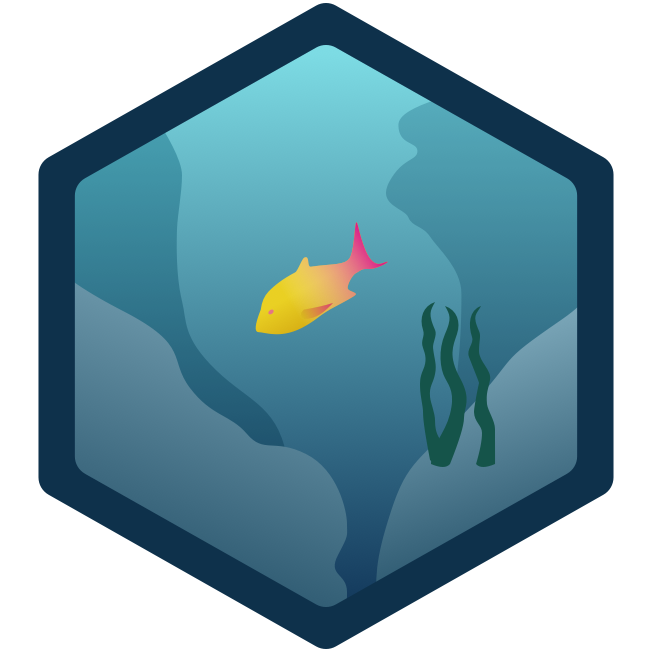
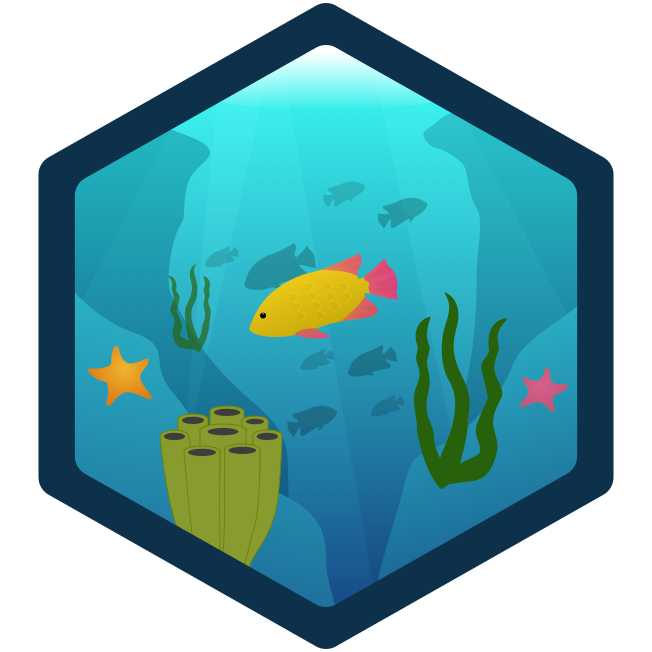
Updated assets

diff --git a/utility/challengeHelpers.js b/utility/challengeHelpers.js
@@ -19,13 +19,6 @@ const fetchIncompleteChallenges = ( realm ) => {
   const incompleteChallenges = realm.objects( "ChallengeRealm" )
     .filtered( "percentComplete != 100 AND started == true" );
 
-  incompleteChallenges.forEach( ( challenge ) => {
-    const { startedDate } = challenge;
-
-    if ( !startedDate ) {
-      challenge.startedDate = new Date();
-    }
-  } );
   return incompleteChallenges;
 };
 
@@ -43,15 +36,8 @@ const fetchObservationsAfterChallengeStarted = ( realm, challenge ) => {
   return seenTaxa;
 };
 
-const updateChallengePercentages = ( challenge ) => {
-  const prevPercent = challenge.percentComplete; // this only ever calculates for april
-  const totalSeen = challenge.numbersObserved.reduce( ( acc, val ) => acc + val );
-
-  const percentComplete = calculatePercent( totalSeen, challenge.totalSpecies );
-
-  challenge.percentComplete = percentComplete;
-
-  if ( percentComplete === 100 ) {
+const setChallengeNotifications = ( percentComplete, prevPercent, challenge ) => {
+  if ( percentComplete === 100 && prevPercent !== 100 ) {
     challenge.completedDate = new Date();
     createNotification( "challengeCompleted", challenge.index );
   } else if ( percentComplete >= 75 && prevPercent < 75 ) {
@@ -60,6 +46,18 @@ const updateChallengePercentages = ( challenge ) => {
 
   if ( prevPercent < percentComplete ) {
     setChallengeProgress( challenge.index );
+  }
+};
+
+const updateChallengePercentages = ( challenge ) => {
+  const prevPercent = challenge.percentComplete; // this only ever calculates for april
+  const totalSeen = challenge.numbersObserved.reduce( ( acc, val ) => acc + val );
+
+  const percentComplete = calculatePercent( totalSeen, challenge.totalSpecies );
+
+  if ( prevPercent !== percentComplete ) {
+    challenge.percentComplete = percentComplete;
+    setChallengeNotifications( percentComplete, prevPercent, challenge );
   }
 };
 
@@ -90,7 +88,7 @@ const checkForAncestors = ( seenTaxa, taxaId ) => {
   return matchingAncestors;
 };
 
-const calculateTaxaSeenPerMission = ( types, seenTaxa ) => {
+const calculateTaxaSeenPerMission = ( types, seenTaxa ) => { // only getting challenge 1
   let count = 0;
 
   types.forEach( ( taxa ) => {
@@ -102,8 +100,15 @@ const calculateTaxaSeenPerMission = ( types, seenTaxa ) => {
       const taxaId = taxonDict.default[taxa];
       const taxaTypeSeen = seenTaxa.filter( t => t.taxon.iconicTaxonId === taxaId );
       const matchingAncestors = checkForAncestors( seenTaxa, taxaId );
+      if ( taxaTypeSeen.length > 0 ) {
+        taxaPerMission = taxaTypeSeen.length;
+      } else if ( matchingAncestors.length > 0 ) {
+        taxaPerMission = matchingAncestors.length;
+      } else {
+        taxaPerMission = 0;
+      }
 
-      taxaPerMission = taxaTypeSeen.length || matchingAncestors.length;
+      // taxaPerMission = taxaTypeSeen.length || matchingAncestors.length;
     }
     count += taxaPerMission;
   } );

diff --git a/components/Challenges/ChallengeDetailsScreen.js b/components/Challenges/ChallengeDetailsScreen.js
@@ -8,7 +8,8 @@ import {
   ImageBackground,
   TouchableOpacity,
   ScrollView,
-  SafeAreaView
+  SafeAreaView,
+  StatusBar
 } from "react-native";
 import Realm from "realm";
 import Modal from "react-native-modal";
@@ -159,6 +160,7 @@ class ChallengeDetailsScreen extends Component<Props> {
       <View style={styles.container}>
         <SafeAreaView style={styles.safeViewTop} />
         <SafeAreaView style={styles.safeView}>
+          <StatusBar barStyle="light-content" />
           <NavigationEvents
             onWillFocus={() => {
               recalculateChallenges();

diff --git a/utility/challengesDict.js b/utility/challengesDict.js
@@ -36,7 +36,7 @@ const challenges = {
     month: "challenges.june_2019",
     description: "challenges.june_description",
     totalSpecies: 13,
-    homeBackgroundName: "img-homechallenge-may",
+    homeBackgroundName: "img-homechallenge-june",
     backgroundName: "img-challengedetail-june",
     unearnedIconName: "badge_empty",
     earnedIconName: "badge_ourplanet_june",

diff --git a/styles/challenges/challengeDetails.js b/styles/challenges/challengeDetails.js
@@ -24,7 +24,7 @@ export default StyleSheet.create( {
   },
   safeViewTop: {
     flex: 0,
-    backgroundColor: colors.darkGray
+    backgroundColor: colors.black
   },
   safeView: {
     flex: 1,

diff --git a/utility/iconicTaxonDict.js b/utility/iconicTaxonDict.js
@@ -12,4 +12,3 @@ const iconicTaxaNames = {
 };
 
 export default iconicTaxaNames;
-
